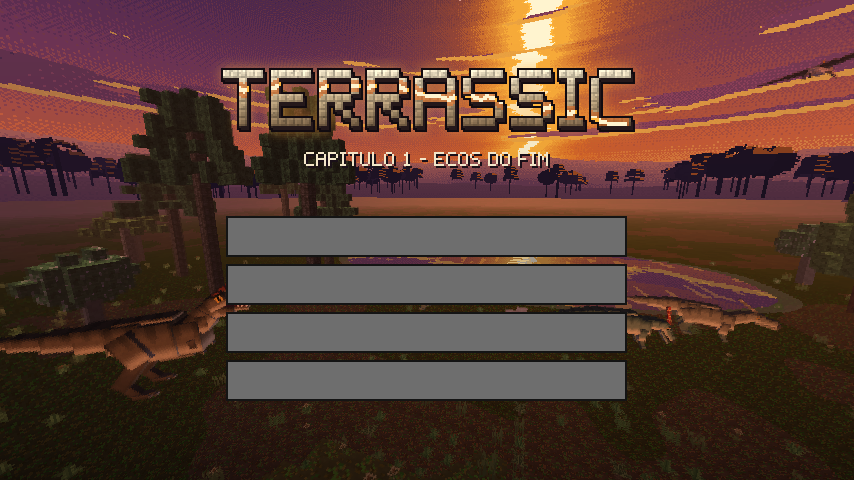
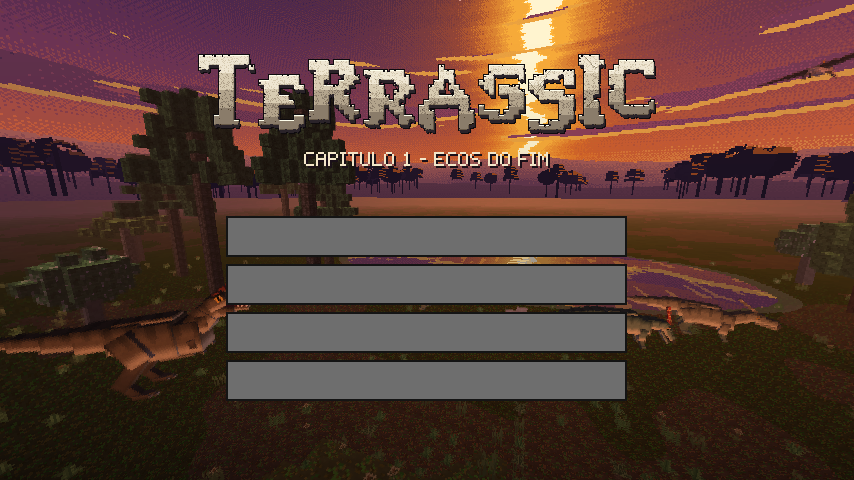
Tela de título em Degraus
- O letreiro da tela de título do jogo passa para o Degraus, a mesma letra das capas:
  textures/gui/title/terrassic.png (agora 512x128, desenhado como 256x64, nítido na escala 2)
  e textures/gui/title/menu/titulo.png (950x150). Sem mudança em Java.
- titulo.title_in() encaixa o letreiro no tamanho que o Java espera; title.py e
  menu_assets.py passam a usá-la, então regerar o menu não distorce mais o letreiro.
- Prévia da tela de título e docs/IDENTIDADE.md atualizados.

Testar no Mac (humano): tela de título (letreiro nítido em escala 2 e 3) e menu da galeria (titulo.png sem distorção).

Changed region(s): [[0.2131, 0.0938, 0.7916, 0.3125]]

diff --git a/tools/capagen/title.py b/tools/capagen/title.py
@@ -3,7 +3,7 @@ Title-screen art (v0.8, phase M2): the TERRASSIC logo the title screen draws ins
 of the whole screen (panorama as the game shows it + logo + subtitle) for review.
 
 usage:  python3 panorama.py && python3 title.py
-        -> common/src/main/resources/assets/terrassic/textures/gui/title/terrassic.png  (256x64, drawn 1:1)
+        -> common/src/main/resources/assets/terrassic/textures/gui/title/terrassic.png  (512x128, drawn as 256x64)
         -> art/capa/tela_titulo_preview.png and art/capa/panorama_vistas.png (four directions of the panorama)
 """
 import math
@@ -18,6 +18,7 @@ sys.path.insert(0, HERE)
 
 import logo  # noqa: E402
 import panorama as P  # noqa: E402
+import titulo  # noqa: E402
 
 TITLE = os.path.join(P.r3.ROOT, "common", "src", "main", "resources", "assets", "terrassic", "textures", "gui", "title")
 PREVIEW = os.path.join(P.r3.ROOT, "art", "capa", "tela_titulo_preview.png")
@@ -25,14 +26,10 @@ VIEWS = os.path.join(P.r3.ROOT, "art", "capa", "panorama_vistas.png")
 
 
 def logo_texture():
-    """256x64 RGBA: the stone wordmark with the Rift's crack and an amber glow, centred, top 4 px of margin."""
-    mark = logo.wordmark("TERRASSIC", block=4, depth=2)
-    canvas = Image.new("RGBA", (256, 64), (0, 0, 0, 0))
-    x, y = (256 - mark.width) // 2, 6
-    layer = Image.new("RGBA", (256, 64), (0, 0, 0, 0))
-    layer.paste(mark, (x, y), mark)
-    canvas = Image.alpha_composite(canvas, logo.glow(layer, 3, strength=0.55))
-    return Image.alpha_composite(canvas, layer)
+    """512x128 RGBA: TERRASSIC in Degraus (the title face), centred. TerrassicTitle draws it as 256x64 GUI units, so the
+    texture is twice that: one texture pixel per screen pixel at GUI scale 2. Set high, to leave room for the
+    chapter line drawn under it."""
+    return titulo.title_in(512, 128, "pedra", align="center", top=2)
 
 
 def view(spin, W=854, H=480):
@@ -72,7 +69,7 @@ def preview(tex):
     grad = np.zeros((H * scale, W * scale, 4), np.uint8)
     grad[..., 3] = (np.linspace(0, 1, H * scale) ** 2 * 120).astype(np.uint8)[:, None]
     bg = Image.alpha_composite(bg, Image.fromarray(grad, "RGBA"))
-    big = tex.resize((256 * scale, 64 * scale), Image.NEAREST)
+    big = tex.resize((256 * scale, 64 * scale), Image.NEAREST)  # the game draws it at 256x64 GUI units
     bg.alpha_composite(big, ((W * scale - big.width) // 2, 30 * scale - 6 * scale))
     d = ImageDraw.Draw(bg)
     cap = logo.up(logo.caption("CAPITULO 1 - ECOS DO FIM"), scale)

diff --git a/tools/menugen/menu_assets.py b/tools/menugen/menu_assets.py
@@ -4,7 +4,8 @@ Textures of the Terrassic main menu (client/title/TerrassicMenuScreen.java, docs
   textures/gui/title/menu/fundo_<cena>.png  1920x1080 scene behind the menu (rendered by menu_cenas.py with the
                                             Blender backend of tools/capagen), with the left side and the bottom
                                             darkened so the title, the options and the placard stay readable
-  textures/gui/title/menu/titulo.png        the TERRASSIC title of the cover (tools/capagen/titulo.py, finish "pedra")
+  textures/gui/title/menu/titulo.png        the TERRASSIC title in Degraus, like the covers (tools/capagen/titulo.py,
+                                            finish "pedra"), on the 950x150 canvas TerrassicMenuScreen expects
   textures/gui/title/menu/icones.png        16x16 option icons (icones.py): one column per icon, rows idle/hover/dim
 
 usage:
@@ -57,7 +58,7 @@ def main(scene_dir):
         background(os.path.join(scene_dir, scene + ".png")).save(os.path.join(OUT, f"fundo_{scene}.png"), optimize=True)
     icon_atlas().save(os.path.join(OUT, "icones.png"))
     import titulo
-    titulo.title("TERRASSIC", finish="pedra", texel=2).save(os.path.join(OUT, "titulo.png"), optimize=True)
+    titulo.title_in(950, 150, "pedra").save(os.path.join(OUT, "titulo.png"), optimize=True)  # TITLE_W x TITLE_H
     print("menu textures written to", OUT)
 
 

diff --git a/tools/capagen/titulo.py b/tools/capagen/titulo.py
@@ -18,6 +18,19 @@ def title(text="TERRASSIC", finish="pedra", texel=2, age=1.0):
     return letreiro.image(text, ALIASES.get(finish, finish), s=texel * 5, age=age)
 
 
+def title_in(W, H, finish="pedra", text="TERRASSIC", align="left", top=None, age=1.0):
+    """The title at the largest whole block size that fits a W x H texture (one block of air around it), on a
+    transparent W x H canvas: left-aligned or centred; centred vertically, or `top` px from the top. For game textures
+    of a fixed size."""
+    f = ALIASES.get(finish, finish)
+    w1, h1 = letreiro.image(text, f, s=1, age=0, pad=1).size
+    s = max(1, min(W // w1, H // h1))
+    t = letreiro.image(text, f, s=s, age=age, pad=1)
+    out = Image.new("RGBA", (W, H))
+    out.alpha_composite(t, ((W - t.width) // 2 if align == "center" else 0, (H - t.height) // 2 if top is None else top))
+    return out
+
+
 SLOGANS = {
     "pt_br": "O PASSADO ACORDOU.",
     "en_us": "THE PAST HAS AWOKEN.",

diff --git a/docs/IDENTIDADE.md b/docs/IDENTIDADE.md
@@ -123,7 +123,8 @@ Propostas geradas por `tools/capagen/brand.py` em `art/identidade/marca/`:
 **Degraus** é a letra dos letreiros (capas, banners, site): glifos em `tools/fontgen/degraus.py` (A a Z, números,
 pontuação e os acentos do português e do espanhol, grade de 11 linhas), desenho em `tools/capagen/letreiro.py` (degraus,
 desgaste, acabamento, contorno e extrusão; o mesmo do site, pixel a pixel). As capas usam Degraus no TERRASSIC e no
-slogan (`tools/capagen/titulo.py`). Não é fonte de interface: dentro do jogo os títulos continuam em Entalhe.
+slogan (`tools/capagen/titulo.py`), e a tela de título do jogo usa o mesmo letreiro. Não é fonte de interface: os
+títulos dentro das telas continuam em Entalhe.
 
 O ícone do selo (`icone_proposta.png`) continua só proposta: o `icon.png` do jogo é o T. rex da capa "Caçada"
 (aprovado em 25/10, `docs/CAPA.md`).
@@ -147,8 +148,9 @@ O ícone do selo (`icone_proposta.png`) continua só proposta: o `icon.png` do j
    telas de carga e domesticação que vierem (v0.7).
 2. **Pacote de texturas do Cretáceo** (`TEXTURAS_ERA.md`): menus e inventários do vanilla em basalto e âmbar dentro do
    pacote embutido (opcional, ligado no mundo Terrassic).
-3. Trocar o letreiro da tela de título pelo Degraus (aprovado em 25/10): `textures/gui/title/menu/titulo.png` (950x150,
-   gerado por `tools/menugen/menu_assets.py` com `titulo.title`) e `textures/gui/title/terrassic.png` (256x64).
+3. Feito em 25/10: a tela de título usa o Degraus. `textures/gui/title/terrassic.png` (512x128, desenhado como 256x64,
+   `tools/capagen/title.py`) e `textures/gui/title/menu/titulo.png` (950x150, `tools/menugen/menu_assets.py`), os dois
+   por `titulo.title_in`, que encaixa o letreiro no tamanho que o Java espera.
 4. Site e redes (marco "Lançamento"): as fontes em TrueType (`art/identidade/fontes/`) nos títulos e na interface do
    site, a prancha como guia, molduras de "ficha de campo" para revelar espécies.
 5. Fontes: ícones de interface como glifos (coração, fome, pegada) para usar dentro do texto; versão "Entalhe" de 24 px
